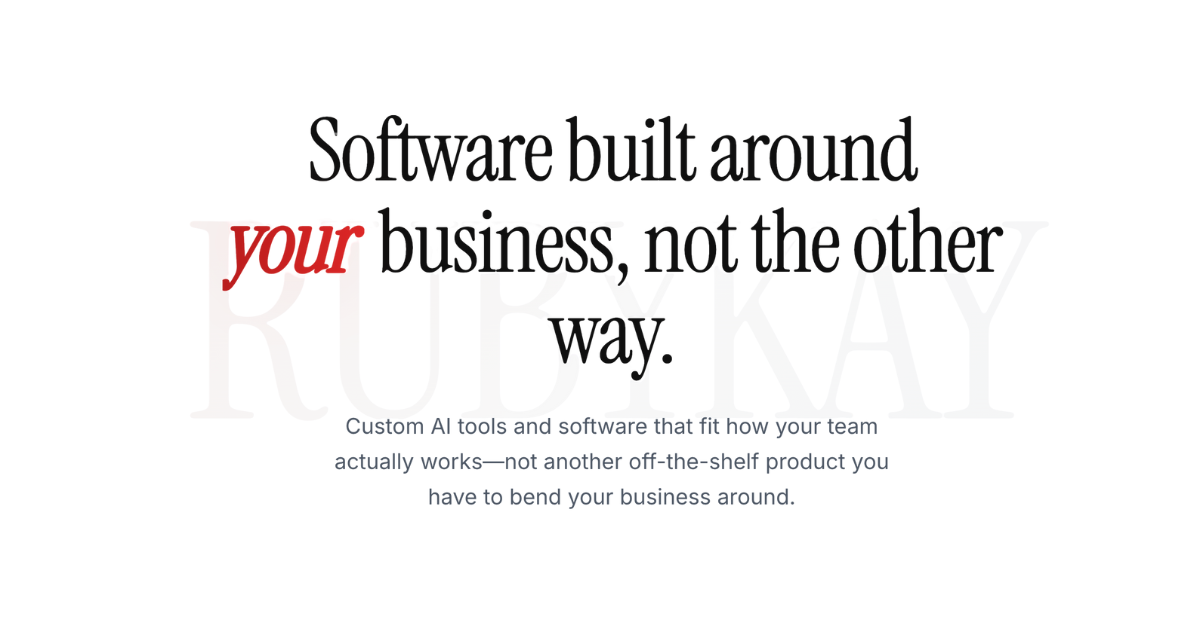
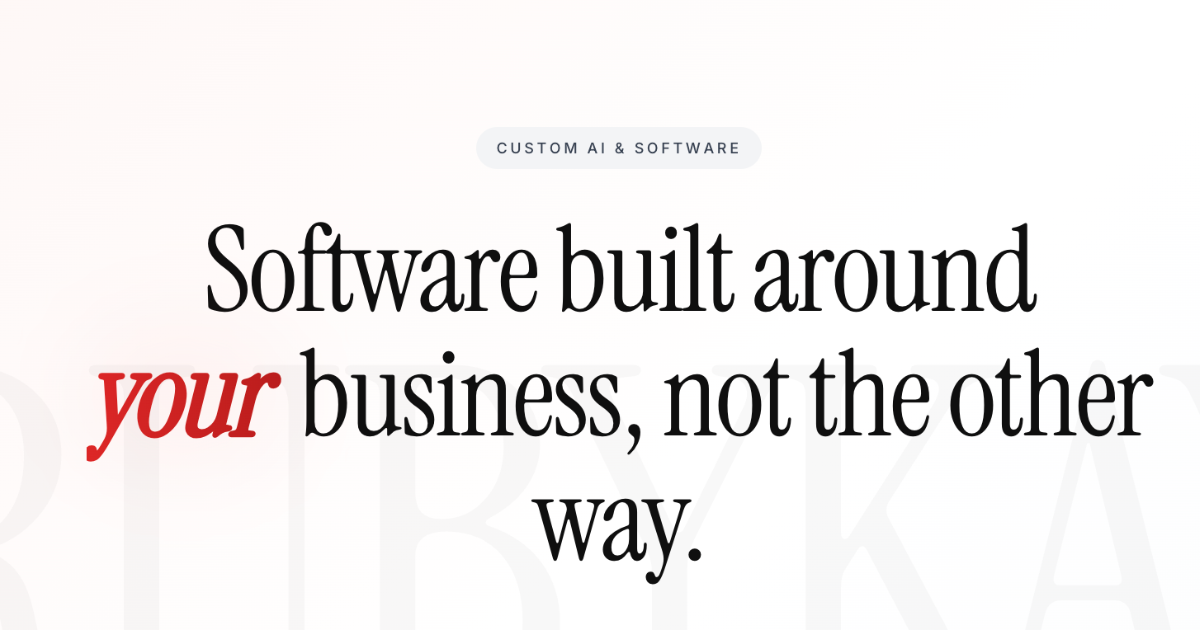
Add og:image for link previews
Adds og-image.png and og:image / twitter:image meta tags so iMessage,
Slack, and other unfurlers render a proper preview card.

Changed region(s): [[0.0617, 0.3317, 0.9558, 0.754], [0.2467, 0.181, 0.7708, 0.3016], [0.3392, 0.7841, 0.6783, 0.9349]]

diff --git a/index.html b/index.html
@@ -15,11 +15,16 @@
     <meta property="og:url" content="https://rubykaylabs.com" />
     <meta property="og:site_name" content="RubyKay Labs" />
     <meta property="og:type" content="website" />
+    <meta property="og:image" content="https://rubykaylabs.com/og-image.png" />
+    <meta property="og:image:width" content="1200" />
+    <meta property="og:image:height" content="630" />
+    <meta property="og:image:alt" content="RubyKay Labs — Software built around your business, not the other way." />
 
     <!-- Twitter -->
     <meta name="twitter:card" content="summary_large_image" />
     <meta name="twitter:title" content="RubyKay Labs | Custom AI & Software for Growing Companies" />
     <meta name="twitter:description" content="We build custom AI tools and software products that fit how your team actually works." />
+    <meta name="twitter:image" content="https://rubykaylabs.com/og-image.png" />
 
     <!-- Google Fonts -->
     <link rel="preconnect" href="https://fonts.googleapis.com">